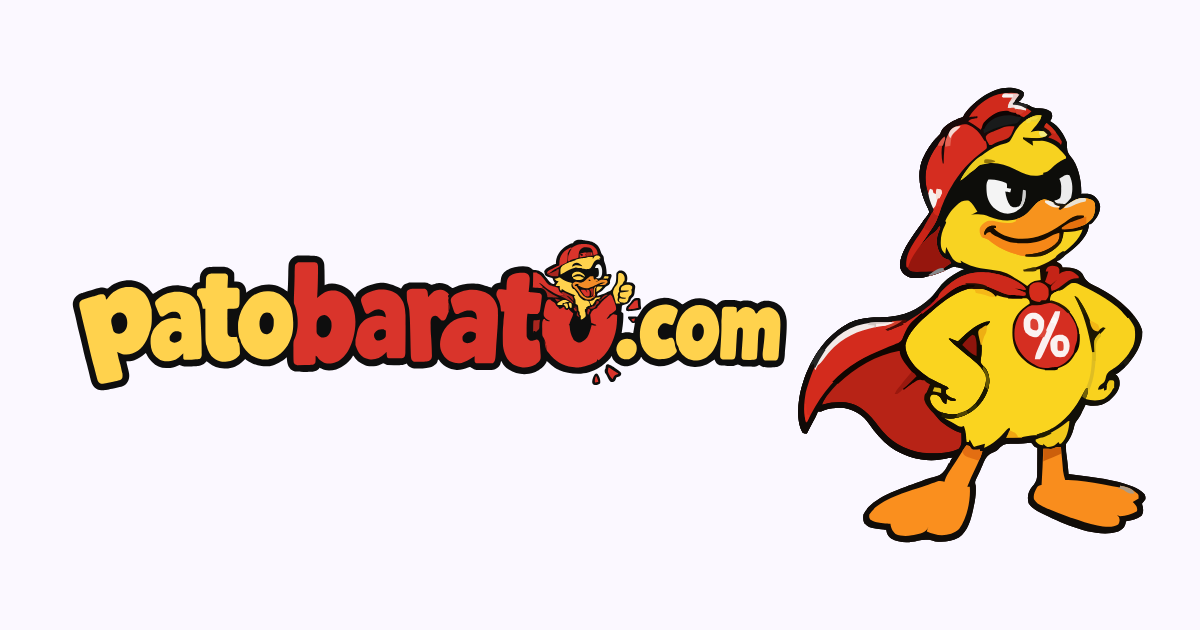
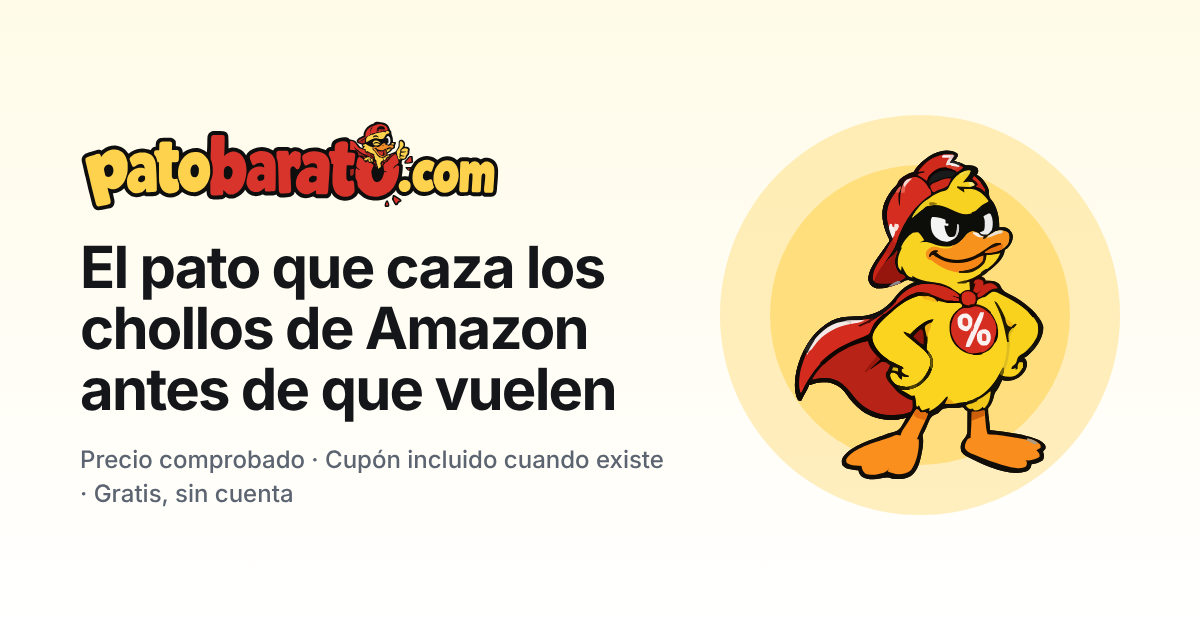
chore(web): og image, docs and token cleanup

diff --git a/web/src/components/ProductView.tsx b/web/src/components/ProductView.tsx
@@ -6,7 +6,7 @@ import { AmazonButton } from './AmazonButton'
 import { DealCard } from './DealCard'
 
 const PLACEHOLDER = '/pato-placeholder.svg'
-const FOCUS = 'focus-visible:outline-2 focus-visible:outline-offset-2 focus-visible:outline-carbon'
+const FOCUS = 'focus-visible:outline-2 focus-visible:outline-offset-2 focus-visible:outline-primary'
 
 export const AFFILIATE_DISCLAIMER =
   'En calidad de Afiliado de Amazon, PatoBarato obtiene ingresos por las compras adscritas que cumplen los requisitos aplicables.'
@@ -30,7 +30,7 @@ export function ProductView({ deal, related, now }: Props) {
 
   return (
     <>
-      <nav aria-label="Ruta de navegación" className="text-sm text-zinc-500">
+      <nav aria-label="Ruta de navegación" className="text-sm text-muted">
         <ol className="flex min-w-0 items-center gap-1.5">
           <li className="shrink-0">
             <a href="/" className={`hover:underline ${FOCUS}`}>
@@ -55,7 +55,7 @@ export function ProductView({ deal, related, now }: Props) {
       </nav>
 
       <article className="mt-4 grid gap-6 md:mt-6 md:grid-cols-2 md:gap-10">
-        <div className="relative mx-auto aspect-square w-full max-w-44 overflow-hidden rounded-2xl border border-zinc-100 bg-white sm:max-w-md md:max-w-none">
+        <div className="relative mx-auto aspect-square w-full max-w-44 overflow-hidden rounded-2xl border border-line bg-white sm:max-w-md md:max-w-none">
           {deal.imageUrl ? (
             <img
               src={deal.imageUrl}
@@ -82,8 +82,8 @@ export function ProductView({ deal, related, now }: Props) {
         </div>
 
         <div className="flex flex-col items-center gap-3 text-center md:items-start md:text-left">
-          <span className="inline-flex items-center gap-1.5 rounded-full border border-zinc-200 px-3 py-1 text-xs font-bold text-zinc-600">
-            <span aria-hidden="true" className="text-amber">
+          <span className="inline-flex items-center gap-1.5 rounded-full border border-line px-3 py-1 text-xs font-bold text-muted">
+            <span aria-hidden="true" className="text-accent-ink">
               ●
             </span>
             <span>{store.name}</span>
@@ -104,17 +104,17 @@ export function ProductView({ deal, related, now }: Props) {
             <p className="price text-sm font-semibold">{`Ahorras ${formatPrice(saving)}`}</p>
           )}
           {deal.coupon && (
-            <p className="rounded-md bg-zinc-100 px-3 py-1.5 text-sm text-zinc-600">{deal.coupon}</p>
+            <p className="rounded-md bg-surface px-3 py-1.5 text-sm text-muted">{deal.coupon}</p>
           )}
-          <p className="text-sm text-zinc-500">
+          <p className="text-sm text-muted">
             {`Publicado ${timeAgo(deal.publishedAt, clock)} · El precio puede cambiar`}
           </p>
 
           {/* Mobile: fixed bottom bar (above the home indicator); desktop: inline. */}
-          <div className="fixed inset-x-0 bottom-0 z-40 border-t border-zinc-200 bg-white/95 px-4 pt-3 pb-[calc(0.75rem+env(safe-area-inset-bottom))] backdrop-blur md:static md:z-auto md:w-full md:max-w-sm md:border-0 md:bg-transparent md:p-0 md:backdrop-blur-none">
+          <div className="fixed inset-x-0 bottom-0 z-40 border-t border-line bg-white/95 px-4 pt-3 pb-[calc(0.75rem+env(safe-area-inset-bottom))] backdrop-blur md:static md:z-auto md:w-full md:max-w-sm md:border-0 md:bg-transparent md:p-0 md:backdrop-blur-none">
             <AmazonButton url={deal.affiliateUrl} store={deal.store} className="w-full" />
           </div>
-          <p className="max-w-sm text-xs text-zinc-500">{AFFILIATE_DISCLAIMER}</p>
+          <p className="max-w-sm text-xs text-muted">{AFFILIATE_DISCLAIMER}</p>
 
           {deal.hashtags.length > 0 && (
             <ul aria-label="Hashtags" className="flex flex-wrap justify-center gap-2 md:justify-start">
@@ -122,7 +122,7 @@ export function ProductView({ deal, related, now }: Props) {
                 <li key={t}>
                   <a
                     href={tagPath(t)}
-                    className={`inline-block rounded-full bg-zinc-100 px-3 py-1 text-sm text-zinc-600 hover:bg-zinc-200 ${FOCUS}`}
+                    className={`inline-block rounded-full bg-surface px-3 py-1 text-sm text-muted hover:bg-line ${FOCUS}`}
                   >
                     #{t}
                   </a>

diff --git a/web/src/app/error.tsx b/web/src/app/error.tsx
@@ -3,29 +3,29 @@
 import { Header } from '../components/Header'
 import { SearchForm } from '../components/SearchForm'
 
-const FOCUS = 'focus-visible:outline-2 focus-visible:outline-offset-2 focus-visible:outline-carbon'
+const FOCUS = 'focus-visible:outline-2 focus-visible:outline-offset-2 focus-visible:outline-primary'
 
 // `retry` re-fetches the server data and re-renders; `reset` alone would show the same failed render.
 export default function ErrorPage({ retry }: { error: unknown; retry: () => void }) {
   return (
-    <div className="min-h-screen bg-surface font-sans text-carbon">
+    <div className="min-h-screen bg-surface font-sans text-ink">
       <Header search={<SearchForm />} />
       <main className="mx-auto max-w-[1280px] px-4 pt-32 pb-16 md:px-8 md:pt-24">
         <div className="flex flex-col items-center gap-4 py-8 text-center">
           <img src="/pato-placeholder.svg" alt="" width={120} height={120} className="h-28 w-28" />
           <h1 className="text-2xl font-extrabold md:text-3xl">Algo ha fallado al cargar los chollos</h1>
-          <p className="text-zinc-600">Puede ser algo pasajero. Vuelve a intentarlo en un momento.</p>
+          <p className="text-muted">Puede ser algo pasajero. Vuelve a intentarlo en un momento.</p>
           <div className="flex flex-col gap-3 sm:flex-row">
             <button
               type="button"
               onClick={() => retry()}
-              className={`rounded-xl bg-amber px-6 py-3 font-extrabold text-carbon hover:bg-amber/90 ${FOCUS}`}
+              className={`rounded-xl bg-accent px-6 py-3 font-extrabold text-ink hover:bg-accent/90 ${FOCUS}`}
             >
               Reintentar
             </button>
             <a
               href="/"
-              className={`rounded-xl border border-carbon px-6 py-3 font-extrabold text-carbon hover:bg-zinc-100 ${FOCUS}`}
+              className={`rounded-xl border border-ink px-6 py-3 font-extrabold text-ink hover:bg-surface ${FOCUS}`}
             >
               Volver al inicio
             </a>

diff --git a/web/src/components/TelegramPreview.tsx b/web/src/components/TelegramPreview.tsx
@@ -5,8 +5,8 @@ export function TelegramPreview({ deal }: { deal: Deal }) {
   const discount =
     deal.previousPrice !== null ? discountPercent(deal.price, deal.previousPrice) : null
   return (
-    <div className="rounded-2xl bg-carbon-soft p-5 text-sm text-zinc-100">
-      <div className="flex flex-col gap-1.5 rounded-xl bg-carbon p-4 leading-relaxed">
+    <div className="rounded-2xl bg-[#2b3039] p-5 text-sm text-white">
+      <div className="flex flex-col gap-1.5 rounded-xl bg-ink p-4 leading-relaxed">
         <p data-line className="font-bold">
           {deal.title}
         </p>
@@ -22,7 +22,7 @@ export function TelegramPreview({ deal }: { deal: Deal }) {
         {deal.coupon && (
           <p data-line>
             🎟 Cupón:{' '}
-            <code className="rounded bg-zinc-700 px-1.5 py-0.5 font-mono">{deal.coupon}</code>
+            <code className="rounded bg-white/10 px-1.5 py-0.5 font-mono">{deal.coupon}</code>
           </p>
         )}
         <p data-line>
@@ -31,13 +31,13 @@ export function TelegramPreview({ deal }: { deal: Deal }) {
             href={deal.affiliateUrl}
             target="_blank"
             rel="sponsored noopener noreferrer"
-            className="break-all text-[#6ab3f3] underline-offset-2 hover:underline focus-visible:outline-2 focus-visible:outline-offset-2 focus-visible:outline-amber"
+            className="break-all text-[#6ab3f3] underline-offset-2 hover:underline focus-visible:outline-2 focus-visible:outline-offset-2 focus-visible:outline-accent"
           >
             {deal.affiliateUrl}
           </a>
         </p>
         {deal.hashtags.length > 0 && (
-          <p data-line className="mt-2 text-amber">
+          <p data-line className="mt-2 text-accent-ink">
             {deal.hashtags.map((t) => `#${t}`).join(' ')}
           </p>
         )}

diff --git a/web/scripts/og.html b/web/scripts/og.html
@@ -1,0 +1,33 @@
+<!doctype html>
+<html lang="es">
+<head>
+<meta charset="utf-8">
+<style>
+  @import url('https://fonts.googleapis.com/css2?family=Inter:wght@500;600&family=Space+Grotesk:wght@700&display=swap');
+  html, body { margin: 0; }
+  body { width: 1200px; height: 630px; overflow: hidden; background: linear-gradient(180deg, #fffbe8 0%, #ffffff 100%); font-family: Inter, system-ui, sans-serif; color: #14161a; }
+  .wrap { position: relative; display: flex; align-items: center; gap: 48px; padding: 72px 80px; height: 630px; box-sizing: border-box; }
+  .text { flex: 1; display: flex; flex-direction: column; gap: 24px; }
+  .logo { width: 420px; height: auto; }
+  h1 { margin: 0; font-family: 'Space Grotesk', Inter, sans-serif; font-size: 58px; line-height: 1.05; letter-spacing: -0.03em; font-weight: 700; }
+  p { margin: 0; font-size: 24px; line-height: 1.4; color: #5b6470; font-weight: 500; }
+  .pato { position: relative; width: 400px; height: 400px; display: flex; align-items: center; justify-content: center; flex-shrink: 0; }
+  .halo { position: absolute; border-radius: 50%; background: #ffd24d; }
+  .pato img { position: relative; width: 340px; height: 340px; object-fit: contain; }
+</style>
+</head>
+<body>
+<div class="wrap">
+  <div class="text">
+    <img class="logo" src="../public/logo.svg" alt="">
+    <h1>El pato que caza los chollos de Amazon antes de que vuelen</h1>
+    <p>Precio comprobado · Cupón incluido cuando existe · Gratis, sin cuenta</p>
+  </div>
+  <div class="pato">
+    <div class="halo" style="width:400px;height:400px;opacity:.35"></div>
+    <div class="halo" style="width:300px;height:300px;opacity:.55"></div>
+    <img src="../public/pato-heroe.svg" alt="">
+  </div>
+</div>
+</body>
+</html>

diff --git a/web/src/lib/seo.ts b/web/src/lib/seo.ts
@@ -11,7 +11,7 @@ export const MIN_INDEXABLE_DEALS = 3
 const NOINDEX = { index: false, follow: true }
 
 /** Default Open Graph image; child metadata replaces the layout's `openGraph`, so pages repeat it. */
-export const OG_IMAGE = { url: '/og.png', width: 1200, height: 630, alt: 'PatoBarato · chollos de Amazon' }
+export const OG_IMAGE = { url: '/og.png', width: 1200, height: 630, alt: 'PatoBarato · El pato que caza los chollos de Amazon antes de que vuelen' }
 
 function dealDiscount(deal: Deal): number | null {
   return deal.previousPrice !== null ? discountPercent(deal.price, deal.previousPrice) : null
@@ -178,4 +178,15 @@ export function siteJsonLd(): Record<string, unknown>[] {
 /** Serializes structured data for a ld+json script; "<" is escaped so text can never close the element. */
 export function jsonLdScript(data: unknown) {
   return { __html: JSON.stringify(data).replace(/</g, '\\u003c') }
+}
+
+/** Metadata for the static text pages (legal, affiliate, contact). */
+export function legalMetadata(title: string, path: string, description: string): Metadata {
+  const full = `${title} · PatoBarato`
+  return {
+    title: full,
+    description,
+    alternates: { canonical: path },
+    openGraph: { type: 'website', siteName: 'PatoBarato', locale: 'es_ES', url: path, title: full, description, images: [OG_IMAGE] },
+  }
 }

diff --git a/web/src/components/LegalLayout.tsx b/web/src/components/LegalLayout.tsx
@@ -1,13 +1,11 @@
-import type { Metadata } from 'next'
 import type { ReactNode } from 'react'
-import { OG_IMAGE } from '../lib/seo'
 import { Footer } from './Footer'
 import { Header } from './Header'
 
-type Props = { title: string; updated: string; children: ReactNode }
+type Props = { title: string; updated: string; year: number; children: ReactNode }
 
 /** Static text pages: header without search, a prose column and the footer. */
-export function LegalLayout({ title, updated, children }: Props) {
+export function LegalLayout({ title, updated, year, children }: Props) {
   return (
     <div className="min-h-screen bg-white font-sans text-ink">
       <Header search={null} />
@@ -18,17 +16,7 @@ export function LegalLayout({ title, updated, children }: Props) {
           {children}
         </div>
       </main>
-      <Footer year={new Date().getUTCFullYear()} />
+      <Footer year={year} />
     </div>
   )
-}
-
-export function legalMetadata(title: string, path: string, description: string): Metadata {
-  const full = `${title} · PatoBarato`
-  return {
-    title: full,
-    description,
-    alternates: { canonical: path },
-    openGraph: { type: 'website', siteName: 'PatoBarato', locale: 'es_ES', url: path, title: full, description, images: [OG_IMAGE] },
-  }
 }

diff --git a/web/src/app/oferta/[store]/[slug]/not-found.tsx b/web/src/app/oferta/[store]/[slug]/not-found.tsx
@@ -27,16 +27,16 @@ export default async function ProductNotFound() {
   const now = new Date()
 
   return (
-    <div className="min-h-screen bg-surface font-sans text-carbon">
+    <div className="min-h-screen bg-surface font-sans text-ink">
       <Header search={<SearchForm />} />
       <main className="mx-auto max-w-[1280px] px-4 pt-32 pb-16 md:px-8 md:pt-24">
         <div className="flex flex-col items-center gap-4 py-8 text-center">
           <img src="/pato-placeholder.svg" alt="" width={120} height={120} className="h-28 w-28" />
           <h1 className="text-2xl font-extrabold md:text-3xl">Esta oferta ya no está disponible</h1>
-          <p className="text-zinc-600">Pero hay más chollos esperándote.</p>
+          <p className="text-muted">Pero hay más chollos esperándote.</p>
           <a
             href="/"
-            className="rounded-xl bg-amber px-6 py-3 font-extrabold text-carbon hover:bg-amber/90 focus-visible:outline-2 focus-visible:outline-offset-2 focus-visible:outline-carbon"
+            className="rounded-xl bg-accent px-6 py-3 font-extrabold text-ink hover:bg-accent/90 focus-visible:outline-2 focus-visible:outline-offset-2 focus-visible:outline-primary"
           >
             Ver los chollos de hoy
           </a>

diff --git a/web/src/components/DealCardSkeleton.tsx b/web/src/components/DealCardSkeleton.tsx
@@ -2,14 +2,14 @@ export function DealCardSkeleton() {
   return (
     <div
       aria-hidden="true"
-      className="animate-pulse overflow-hidden rounded-xl border border-zinc-200 bg-white"
+      className="animate-pulse overflow-hidden rounded-xl border border-line bg-white"
     >
-      <div className="aspect-square bg-zinc-100" />
+      <div className="aspect-square bg-surface" />
       <div className="flex flex-col gap-2 p-2.5 sm:p-3">
-        <div className="h-3.5 w-full rounded bg-zinc-100" />
-        <div className="h-3.5 w-2/3 rounded bg-zinc-100" />
-        <div className="h-6 w-1/2 rounded bg-zinc-100" />
-        <div className="h-10 w-full rounded-lg bg-zinc-100" />
+        <div className="h-3.5 w-full rounded bg-surface" />
+        <div className="h-3.5 w-2/3 rounded bg-surface" />
+        <div className="h-6 w-1/2 rounded bg-surface" />
+        <div className="h-10 w-full rounded-lg bg-surface" />
       </div>
     </div>
   )

diff --git a/web/src/app/afiliados/page.tsx b/web/src/app/afiliados/page.tsx
@@ -1,10 +1,14 @@
-import { LegalLayout, legalMetadata } from '../../components/LegalLayout'
+import { LegalLayout } from '../../components/LegalLayout'
+import { legalMetadata } from '../../lib/seo'
+
+/** Static page: the year is fixed at build time, which is also when the texts were last reviewed. */
+const YEAR = new Date().getUTCFullYear()
 
 export const metadata = legalMetadata('Política de afiliación', '/afiliados', 'Cómo se financia PatoBarato y cómo afecta (y cómo no) a los chollos que publica.')
 
 export default function AfiliadosPage() {
   return (
-    <LegalLayout title="Política de afiliación" updated="6 de noviembre de 2026">
+    <LegalLayout title="Política de afiliación" updated="6 de noviembre de 2026" year={YEAR}>
       <h2>Cómo nos financiamos</h2>
       <p>
         PatoBarato es gratuito y no tiene publicidad. Se financia con enlaces de afiliado: cuando compras

diff --git a/web/src/app/privacidad/page.tsx b/web/src/app/privacidad/page.tsx
@@ -1,10 +1,14 @@
-import { LegalLayout, legalMetadata } from '../../components/LegalLayout'
+import { LegalLayout } from '../../components/LegalLayout'
+import { legalMetadata } from '../../lib/seo'
+
+/** Static page: the year is fixed at build time, which is also when the texts were last reviewed. */
+const YEAR = new Date().getUTCFullYear()
 
 export const metadata = legalMetadata('Política de privacidad', '/privacidad', 'Qué datos trata patobarato.com y con qué finalidad.')
 
 export default function PrivacidadPage() {
   return (
-    <LegalLayout title="Política de privacidad" updated="6 de noviembre de 2026">
+    <LegalLayout title="Política de privacidad" updated="6 de noviembre de 2026" year={YEAR}>
       <h2>Responsable</h2>
       <p>El responsable del tratamiento es [TITULAR], NIF [NIF], [DIRECCIÓN], correo [EMAIL].</p>
       <h2>Qué datos tratamos</h2>

diff --git a/web/src/app/cookies/page.tsx b/web/src/app/cookies/page.tsx
@@ -1,10 +1,14 @@
-import { LegalLayout, legalMetadata } from '../../components/LegalLayout'
+import { LegalLayout } from '../../components/LegalLayout'
+import { legalMetadata } from '../../lib/seo'
+
+/** Static page: the year is fixed at build time, which is also when the texts were last reviewed. */
+const YEAR = new Date().getUTCFullYear()
 
 export const metadata = legalMetadata('Política de cookies', '/cookies', 'Las cookies que utiliza patobarato.com y cómo gestionarlas.')
 
 export default function CookiesPage() {
   return (
-    <LegalLayout title="Política de cookies" updated="6 de noviembre de 2026">
+    <LegalLayout title="Política de cookies" updated="6 de noviembre de 2026" year={YEAR}>
       <h2>Qué cookies usamos</h2>
       <p>
         patobarato.com solo utiliza cookies y almacenamiento técnicos, imprescindibles para que el sitio

diff --git a/web/src/app/aviso-legal/page.tsx b/web/src/app/aviso-legal/page.tsx
@@ -1,10 +1,14 @@
-import { LegalLayout, legalMetadata } from '../../components/LegalLayout'
+import { LegalLayout } from '../../components/LegalLayout'
+import { legalMetadata } from '../../lib/seo'
+
+/** Static page: the year is fixed at build time, which is also when the texts were last reviewed. */
+const YEAR = new Date().getUTCFullYear()
 
 export const metadata = legalMetadata('Aviso legal', '/aviso-legal', 'Datos del titular de patobarato.com y condiciones de uso del sitio.')
 
 export default function AvisoLegalPage() {
   return (
-    <LegalLayout title="Aviso legal" updated="6 de noviembre de 2026">
+    <LegalLayout title="Aviso legal" updated="6 de noviembre de 2026" year={YEAR}>
       <h2>Titular del sitio</h2>
       <p>
         En cumplimiento de la Ley 34/2002, de Servicios de la Sociedad de la Información y de Comercio
